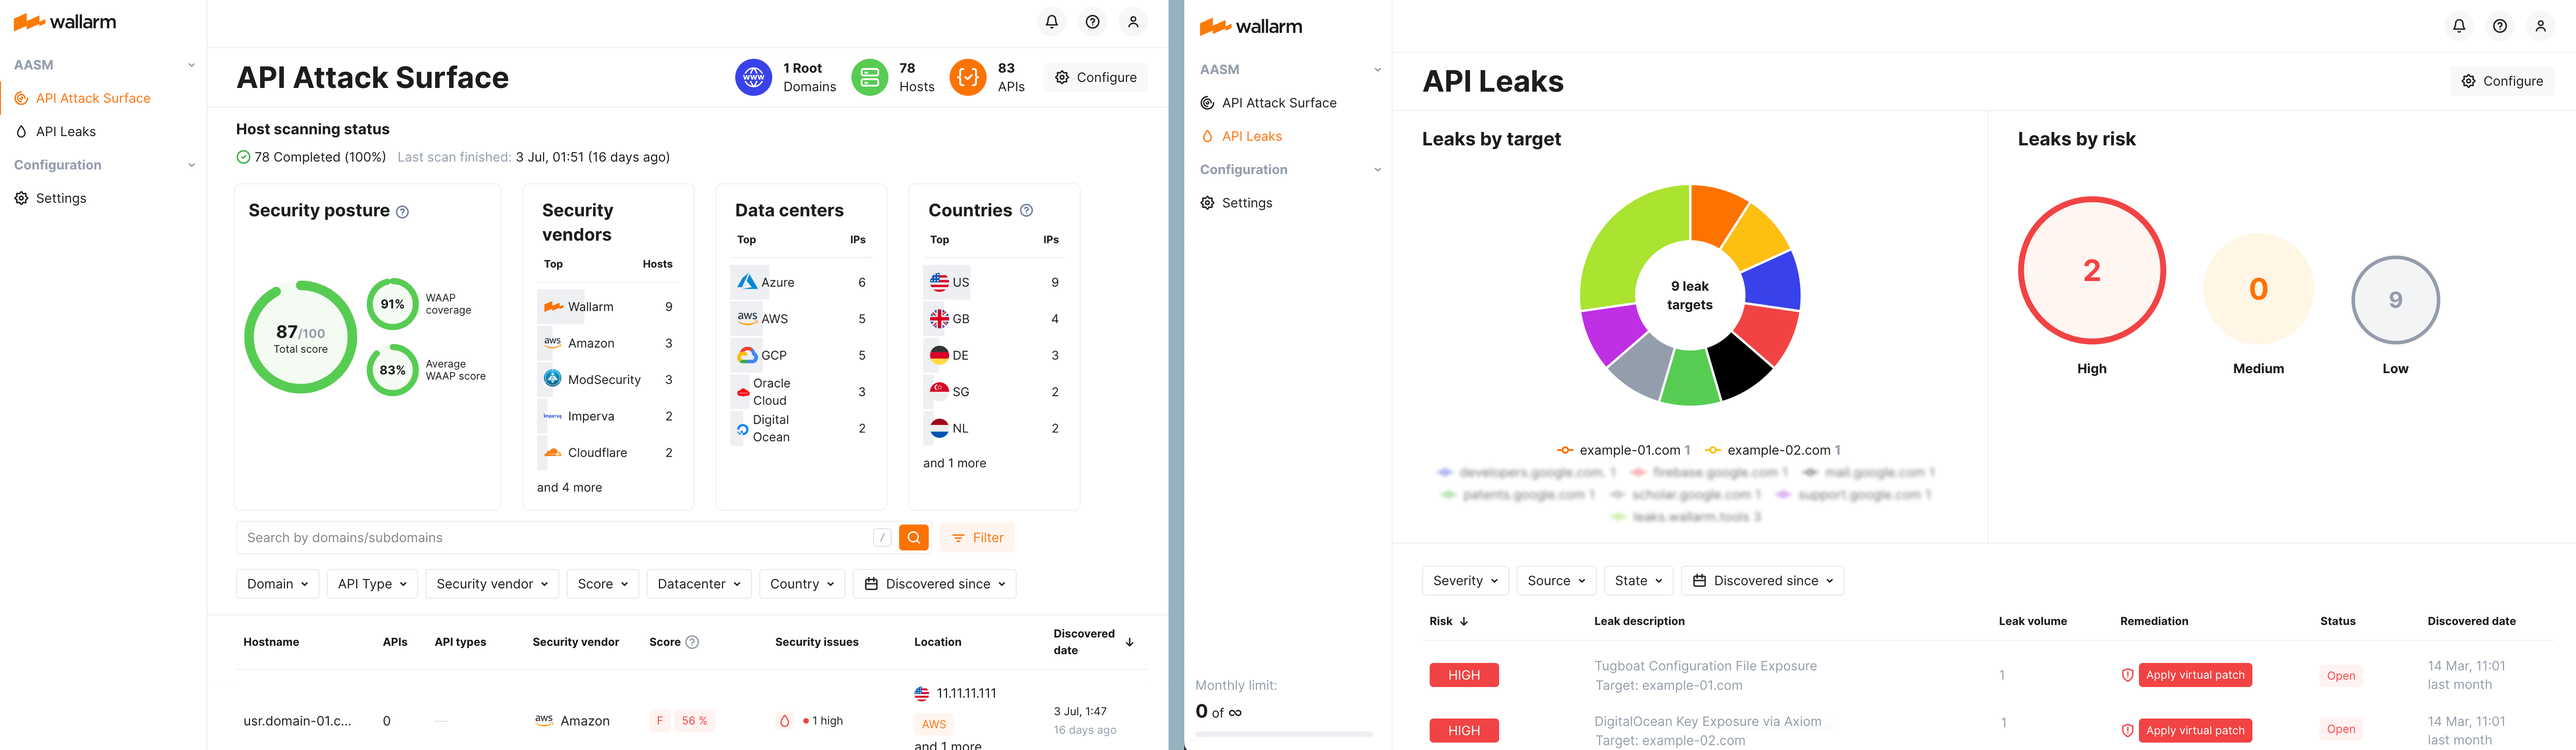
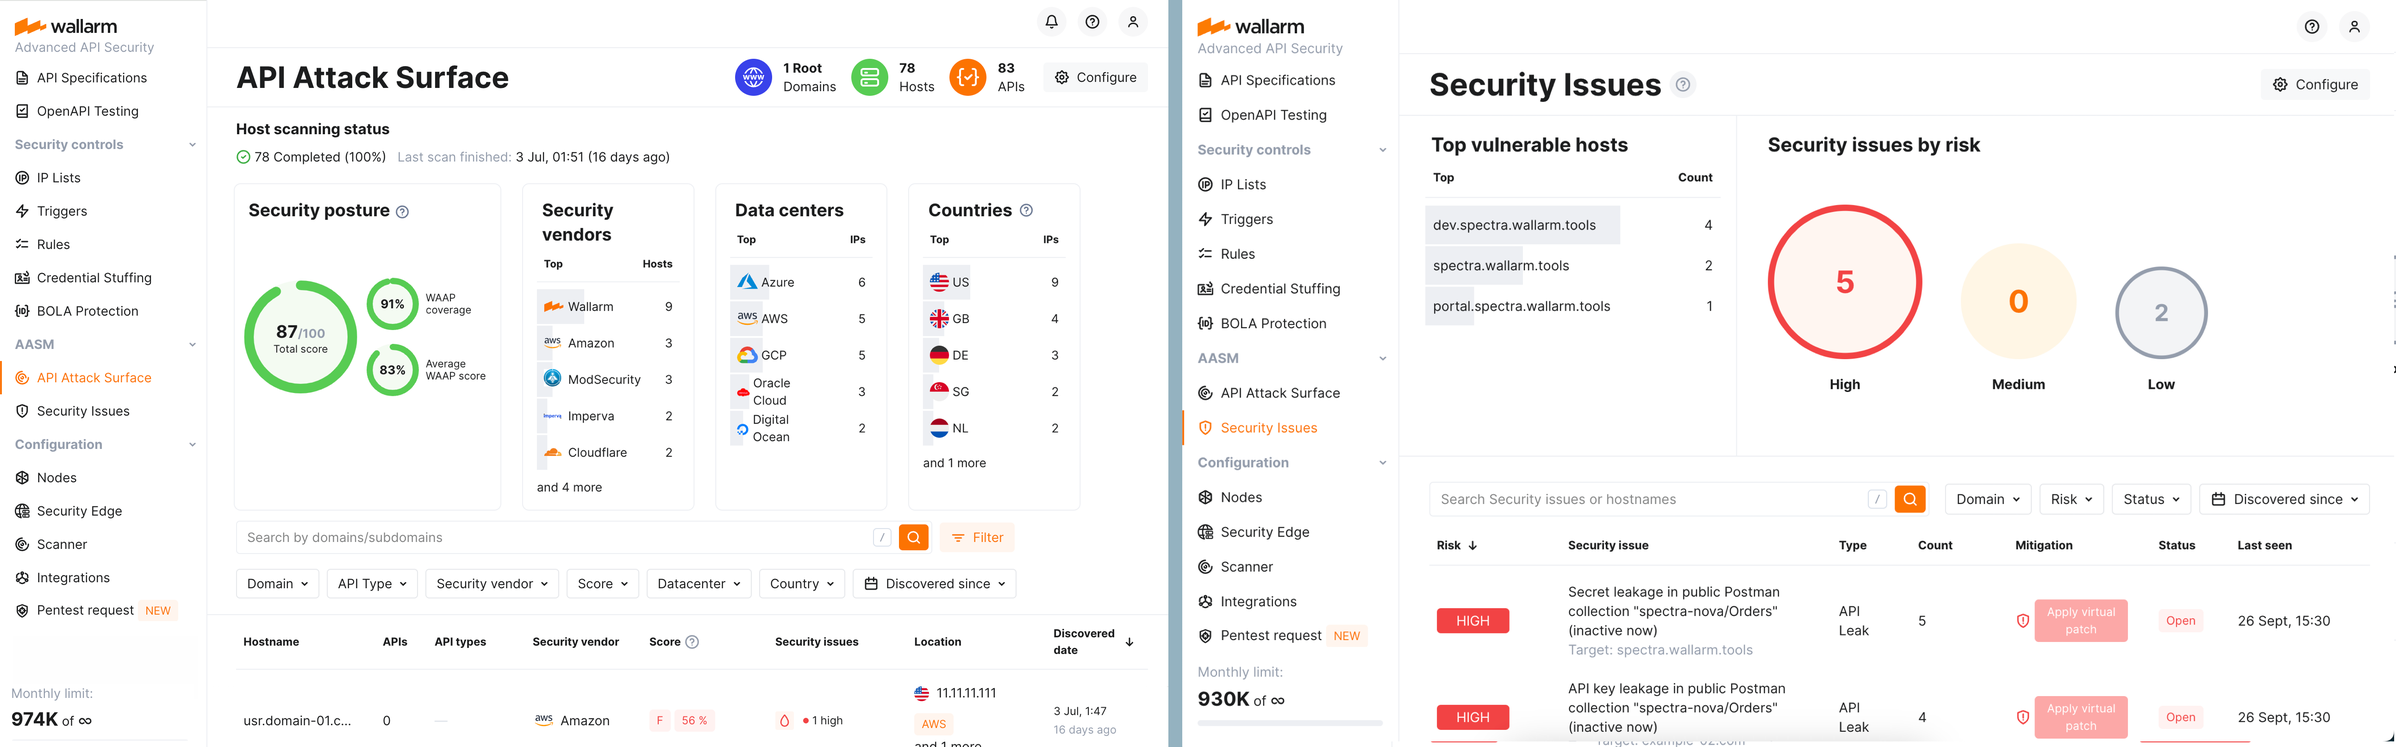
DOCS-2533 AASM - Security Issues

diff --git a/docs/latest/api-attack-surface/security-issues.md b/docs/latest/api-attack-surface/security-issues.md
@@ -1,0 +1,53 @@
+# Security Issues <a href="../../about-wallarm/subscription-plans/#api-attack-surface"><img src="../../images/api-attack-surface-tag.svg" style="border: none;"></a>
+
+Once [API Surface Discovery](api-surface.md) finds the external hosts of your domains, Wallarm checks if these hosts have any security issues. Once found, the issues are listed and described in the **Security Issues** section. This article describes how to use the presented information.
+
+## Exploring security issues
+
+To explore the security issues found for your external hosts, in Wallarm Console go to the AASM's **Security Issues** section.
+
+![Security Issues](../images/api-attack-surface/security-issues.png)
+
+Here, the detailed information on found issues is presented, including:
+
+* Brief and detailed issue description
+* Risk level evaluation and distribution of security issues by these levels
+* Top vulnerable hosts list
+
+## Define your domains to search for security issues
+
+You can define a list of your root domains where you want to search for security issues:
+
+1. In the **API Attack Surface** or **Security Issues** section, click **Configure**.
+1. At the **Scope** tab, add your domains.
+
+    Wallarm will start searching for subdomains and leaked credentials published under the domain. The search progress and results will be displayed at the **Status** tab.
+
+![Security issues - configuring scope](../images/api-attack-surface/security-issues-configure-scope.png)
+
+## API leaks
+
+Wallarm searches for the API leak security issues with the following two-step procedure:
+
+1. **Passive scan**: checks public resources for published (leaked) data related to these domains.
+1. **Active scan**: automatically searches the listed domains for subdomains. Then - as an unauthenticated user - sends requests to their endpoints and checks responses and the source code of pages for the presence of sensitive data. The following data is searched for: credentials, API keys, client secrets, authorization tokens, email addresses, public and private API schemas (API specifications).
+
+You can manage the decisions on what to do with the found leaks:
+
+* If you have a deployed Wallarm [node(s)](../user-guides/nodes/nodes.md), apply a virtual patch to block all attempts to use the leaked API credentials.
+
+    A [virtual patch rule](../user-guides/rules/vpatch-rule.md) will be created.
+    
+    Note that creating virtual patch is only possible when the leaked secret value is 6 or more symbols or regular expression is no more than 4096 symbols - `Not applicable` remediation status will be displayed if these conditions are not met. The limitations aim to prevent the legitimate traffic blocking.
+
+* Mark the leak as false if you think it was added by mistake.
+* Close the leaks to mark that the problem is solved.
+* Even if a leak is closed, it is not deleted. Reopen it to mark that problem is still actual.
+
+## Viewing requests blocked by virtual patches
+
+You can view requests blocked by [virtual patches](../user-guides/rules/vpatch-rule.md) in Wallarm Console → **Attacks** by setting the **Type** filter to `Virtual patch` (`vpatch`).
+
+![Events - Security issues (API leaks) via vpatch](../images/api-attack-surface/api-leaks-in-events.png)
+
+Note that this filter will list not only the virtual patch events caused by the **Security Issues** functionality but also all the other virtual patches, created for different purposes.

diff --git a/docs/latest/api-attack-surface/overview.md b/docs/latest/api-attack-surface/overview.md
@@ -1,11 +1,11 @@
 # API Attack Surface Management  <a href="../../about-wallarm/subscription-plans/#api-attack-surface"><img src="../../images/api-attack-surface-tag.svg" style="border: none;"></a>
 
-Wallarm's **API Attack Surface Management** (**AASM**) is an agentless detection solution designed to discover all external hosts with their APIs, evaluate their protection against Web and API-based attacks, identify missing WAF/WAAP solutions, and eliminate API leaks.
+Wallarm's **API Attack Surface Management** (**AASM**) is an agentless detection solution designed to discover all external hosts with their APIs, evaluate their protection against Web and API-based attacks, identify missing WAF/WAAP solutions, and detect the discovered endpoints' security issues.
 
 API Attack Surface Management includes:
 
 * [API Attack Surface Discovery (AASD)](api-surface.md)
-* [API Leaks Detection](api-leaks.md)
+* [Security Issues Detection](security-issues.md)
 
 ![AASM](../images/api-attack-surface/aasm.png)
 
@@ -22,9 +22,8 @@ Work with API Attack Surface Management looks as follows:
 * Wallarm identifies geolocation and data center for each host.
 * Wallarm identifies exposed APIs on each host.
 * Wallarm identifies security solutions (WAF/WAAP) protecting the host and evaluate their efficiency.
-* Wallarm checks public resources for published (leaked) data related to specified domains.
-* At specified domains, Wallarm searches for revealed (leaked) sensitive data.
-* Wallarm lists leaks found for specified domains.
+* Wallarm checks found domains/hosts for [security issues](security-issues.md).
+* If found, security issues are listed and described for you to be able to solve them.
 
 ## Enabling and setup
 
@@ -36,10 +35,10 @@ To use AASM, the Wallarm's [API Attack Surface](../about-wallarm/subscription-pl
 
 * If you already have Wallarm account, contact [sales@wallarm.com](mailto:sales@wallarm.com).
 
-Once subscription is activated, to configure domain detection and API leaks remediation, in Wallarm Console → AASM → **API Attack Surface** or **API Leaks** section, click **Configure**. Add your domains to the scope, check the scanning status.
+Once subscription is activated, to configure domain detection and start searching for security issues, in Wallarm Console → AASM → **API Attack Surface** or **Security Issues** section, click **Configure**. Add your domains to the scope, check the scanning status.
 
 ![AASM - configuring scope](../images/api-attack-surface/aasm-scope.png)
 
-Wallarm will list all subdomains and show API leaks related to them if there are any. Note that domains are automatically re-scanned daily - new subdomains will be added automatically, previously listed but not found during re-scan will remain in the list.
+Wallarm will list all subdomains and show security issues related to them if there are any. Note that domains are automatically re-scanned daily - new subdomains will be added automatically, previously listed but not found during re-scan will remain in the list.
 
 You can re-start, pause or continue scanning for any domain manually at **Configure** → **Status**.

diff --git a/docs/latest/user-guides/dashboards/nist-csf-2.md b/docs/latest/user-guides/dashboards/nist-csf-2.md
@@ -30,7 +30,7 @@ Wallarm provides robust protection against a wide range of known and emerging th
 To identify anomalies, indicators of compromise, and other potential adverse events, Wallarm emphasizes consistent monitoring of assets as follows:
 
 * [Vulnerability detection](../../about-wallarm/detecting-vulnerabilities.md): Wallarm uses real Internet traffic to proactively identify and report security vulnerabilities. By analyzing attacker attempts and conducting exploitation tests, it uncovers both immediate and potential weaknesses, enabling real-time security monitoring.
-* [API leaks](../../api-attack-surface/api-leaks.md): Wallarm's API Leaks module scans public repositories to identify exposed API tokens. Upon detecting leaks, Wallarm alerts you, allowing prompt analysis and action.
+* [API leaks](../../api-attack-surface/security-issues.md#api-leaks): Wallarm's **Security Issues Detection** module scans public repositories to identify exposed API tokens. Upon detecting leaks, Wallarm alerts you, allowing prompt analysis and action.
 * [OpenAPI Security Testing](../../fast/openapi-security-testing.md) automates API security checks within the software development lifecycle by seamlessly integrating with CI/CD pipelines via Docker. It creates test requests to expose vulnerabilities in endpoints, as defined in your OpenAPI specification, allowing you to address security issues before the API goes into production.
 
 ## Respond

diff --git a/docs/latest/api-attack-surface/api-surface.md b/docs/latest/api-attack-surface/api-surface.md
@@ -32,10 +32,10 @@ You get all this simply by subscribing to the component in Wallarm - you do not 
 
 You can define a list of your **root domains** which you want to search for hosts as follows:
 
-1. In the **API Attack Surface** or **API Leaks** section, click **Configure**.
+1. In the **API Attack Surface** or **Security Issues** section, click **Configure**.
 1. At the **Scope** tab, add your domains.
 
-    Wallarm will start searching for hosts and [leaked credentials](api-leaks.md) published under the domain. The search progress and results will be displayed at the **Status** tab.
+    Wallarm will start searching for hosts and their [security issues](security-issues.md). The search progress and results will be displayed at the **Status** tab.
 
 ![AASM - configuring scope](../images/api-attack-surface/aasm-scope.png)
 
@@ -81,4 +81,4 @@ The total score is calculated using a complex proprietary formula that incorpora
 
     For each host, you can download a detailed WAAP score evaluation report in PDF format.
 
-* **Additional metrics** such as TLS coverage, presence of security issues, and detected API leaks.
+* **Additional metrics** such as TLS coverage, presence of security issues, and detected security issues.

diff --git a/docs/latest/demo-videos/api-leaks.md b/docs/latest/demo-videos/api-leaks.md
@@ -1,4 +1,4 @@
-# API Leaks overview
+# API Leaks Overview
 
 Watch our demo video to gain familiarity with the various types of API leaks that the Wallarm platform's [**API Leaks**](../api-attack-surface/api-leaks.md) module discovers, and to understand how it can remediate any detected leaks.
 
@@ -8,4 +8,4 @@ Watch our demo video to gain familiarity with the various types of API leaks tha
 
 **Related documentation articles**
 
-* [API Leaks](../api-attack-surface/api-leaks.md)
+* [AASM - Security Issues Detection](../api-attack-surface/security-issues.md)

diff --git a/docs/latest/about-wallarm/subscription-plans.md b/docs/latest/about-wallarm/subscription-plans.md
@@ -53,7 +53,7 @@ The **API Attack Surface** subscription plan provides a comprehensive view of pu
 The subscription plan provides the [API Attack Surface Management (AASM)](../api-attack-surface/overview.md) product which includes:
 
 * [API Attack Surface Discovery](../api-attack-surface/api-surface.md)
-* [API Leaks Detection](../api-attack-surface/api-leaks.md)
+* [Security Issues Detection](../api-attack-surface/security-issues.md)
 
 To activate the subscription plan, do one of the following:
 

diff --git a/docs/5.0/index.md b/docs/5.0/index.md
@@ -61,7 +61,7 @@ The Wallarm solution protects APIs, microservices and web applications from OWAS
     <p><ul>
     <li><a href="./api-attack-surface/overview/">Overview</a></li>
     <li><a href="./api-attack-surface/api-surface/">API Attack Surface Discovery</a></li>
-    <li><a href="./api-attack-surface/api-leaks/">API Leaks Detection</a></li>
+    <li><a href="./api-attack-surface/security-issues/">Security Issues</a></li>
     </ul></p>
 </div>
 

diff --git a/docs/latest/installation/on-premise.md b/docs/latest/installation/on-premise.md
@@ -136,4 +136,4 @@ The following functionalities are currently not supported by the on-premise Wall
 
 * [Exposed Asset Scanner](../user-guides/scanner.md)
 * [Active Threat Verification](../vulnerability-detection/active-threat-verification/overview.md)
-* [API Leaks](../api-attack-surface/api-leaks.md)
+* [API Leaks](../api-attack-surface/security-issues.md#api-leaks)

diff --git a/docs/5.0/api-attack-surface/security-issues.md b/docs/5.0/api-attack-surface/security-issues.md
@@ -1,0 +1,1 @@
+--8<-- "latest/api-attack-surface/security-issues.md"
